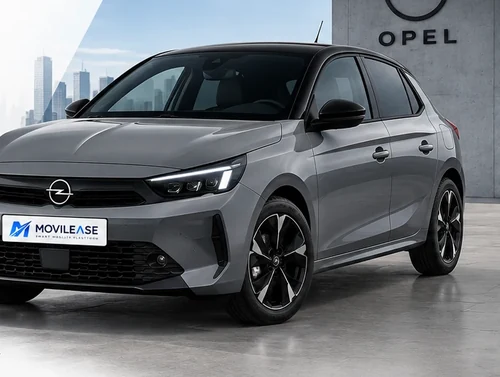
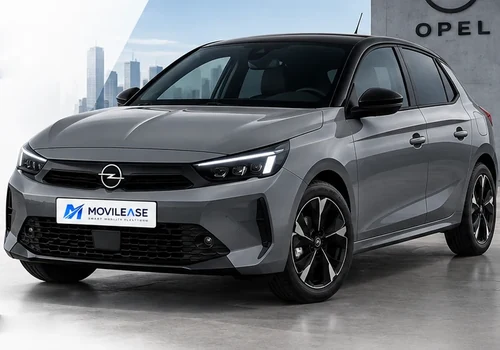
Ofertas con Stonic, CX-30 y Qashqai; portada del Corsa centrada
Entran en «Ofertas Exclusivas» el Kia Stonic, el Mazda CX-30 y el Nissan Qashqai
(oferta:true en CARS). Con el Opel Corsa, el Renault Captur y el Honda CR-V
quedan seis, igual que en movilease.es.

La foto del Corsa se veía desplazada a la izquierda porque el recorte le cortaba
el morro. Entra la misma portada nueva que en movilease.es, con el coche entero y
centrado, y se regeneran la tarjeta y el hero.

Verificado: comprobar.js sin fallos.

diff --git a/sitio-nuevo/index.html b/sitio-nuevo/index.html
@@ -1489,17 +1489,17 @@ const CARS = [
   {b:'Toyota',m:'Yaris',s:'120H 116CV ACTIVE',t:'Compacto',fuel:'Híbrido',g:'Automático',p:327,cv:116,cons:'—',plazas:5,img:'fotos/toyota-yaris-01.webp',cat:'hibrido',feat:true,badge:'Híbrido',meses:72},
   {b:'Volkswagen',m:'Polo',s:'MATCH 1.0 TSI 95CV',t:'Compacto',fuel:'Gasolina',g:'Manual',p:329,cv:95,cons:'—',plazas:5,img:'fotos/vw-polo-01.webp',cat:'turismo',feat:true,badge:null,meses:60},
   {b:'SEAT',m:'León',s:'1.5 eTSI 115CV DSG Style XL',t:'Compacto',fuel:'Gasolina',g:'Automático',p:330,cv:115,cons:'—',plazas:5,img:'fotos/seat-leon-01.webp',cat:'turismo',feat:false,badge:null,meses:48,oferta:false,rapida:true},
-  {b:'Mazda',m:'2',s:'1.5 85kW 116CV CVT Centre-line',t:'Compacto',fuel:'Gasolina',g:'Automático',p:343,cv:116,cons:'4,7',plazas:5,img:'fotos/mazda-2-01.webp',cat:'turismo',feat:false,badge:null,meses:60},{b:'Mazda',m:'3',s:'2.5L e-SKY G MHEV 103kW 140CV Prime-line',t:'Compacto',fuel:'Híbrido',g:'Automático',p:322,cv:140,cons:'5,5',plazas:5,img:'fotos/mazda-3-01.webp',cat:'hibrido',feat:true,badge:'Híbrido',meses:60},{b:'Mazda',m:'CX-30',s:'e-SKYACTIV G MHEV 140CV MT',t:'SUV',fuel:'Híbrido',g:'Manual',p:357,cv:140,cons:'—',plazas:5,img:'fotos/mazda-cx-30-01.webp',cat:'hibrido',feat:true,badge:'Híbrido',meses:36},{b:'Mazda',m:'CX-5',s:'2.5 Sky MHEV 141CV AT FWD Centre-Line',t:'SUV',fuel:'Híbrido',g:'Automático',p:489,cv:141,cons:'6,9',plazas:5,img:'fotos/mazda-cx-5-01.webp',cat:'suv',feat:false,badge:'SUV',meses:60},
+  {b:'Mazda',m:'2',s:'1.5 85kW 116CV CVT Centre-line',t:'Compacto',fuel:'Gasolina',g:'Automático',p:343,cv:116,cons:'4,7',plazas:5,img:'fotos/mazda-2-01.webp',cat:'turismo',feat:false,badge:null,meses:60},{b:'Mazda',m:'3',s:'2.5L e-SKY G MHEV 103kW 140CV Prime-line',t:'Compacto',fuel:'Híbrido',g:'Automático',p:322,cv:140,cons:'5,5',plazas:5,img:'fotos/mazda-3-01.webp',cat:'hibrido',feat:true,badge:'Híbrido',meses:60},{b:'Mazda',m:'CX-30',s:'e-SKYACTIV G MHEV 140CV MT',t:'SUV',fuel:'Híbrido',g:'Manual',p:357,cv:140,cons:'—',plazas:5,img:'fotos/mazda-cx-30-01.webp',cat:'hibrido',feat:true,badge:'Híbrido',meses:36,oferta:true},{b:'Mazda',m:'CX-5',s:'2.5 Sky MHEV 141CV AT FWD Centre-Line',t:'SUV',fuel:'Híbrido',g:'Automático',p:489,cv:141,cons:'6,9',plazas:5,img:'fotos/mazda-cx-5-01.webp',cat:'suv',feat:false,badge:'SUV',meses:60},
   
   {b:'Volkswagen',m:'Taigo',s:'1.0 TSI 70kW 95CV',t:'SUV',fuel:'Gasolina',g:'Manual',p:356,cv:95,cons:'—',plazas:5,img:'fotos/vw-taigo-01.webp',cat:'suv',feat:true,badge:'SUV',meses:60},
   {b:'SEAT',m:'León FR',s:'1.5 TSI 110kW 150CV FR Special Edition',t:'Compacto',fuel:'Gasolina',g:'Manual',p:357,cv:150,cons:'—',plazas:5,img:'fotos/seat-leon-fr-01.webp',cat:'turismo',feat:false,badge:null,meses:60,oferta:false,rapida:true},
   {b:'Cupra',m:'Formentor',s:'1.5 eTSI 150CV DSG',t:'SUV',fuel:'Gasolina',g:'Automático',p:428,cv:150,cons:'—',plazas:5,img:'fotos/cupra-formentor-01.webp',cat:'turismo',feat:true,badge:'SUV',oferta:false,meses:36,rapida:true},
   
-  {b:'Nissan',m:'Qashqai',s:'DIG-T 103kW 140CV mHEV 4x2 Acenta',t:'SUV',fuel:'Gasolina',g:'Manual',p:381,cv:140,cons:'—',plazas:5,img:'fotos/nissan-qashqai-01.webp',cat:'suv',feat:false,badge:'SUV',meses:60,oferta:false},
+  {b:'Nissan',m:'Qashqai',s:'DIG-T 103kW 140CV mHEV 4x2 Acenta',t:'SUV',fuel:'Gasolina',g:'Manual',p:381,cv:140,cons:'—',plazas:5,img:'fotos/nissan-qashqai-01.webp',cat:'suv',feat:false,badge:'SUV',meses:60,oferta:true},
   {b:'Audi',m:'A1',s:'Sportback Adrenalin 30 TFSI 85 kW (115 CV) S tronic',t:'Compacto',fuel:'Gasolina',g:'Automático',p:375,cv:115,cons:'—',plazas:5,img:'fotos/audi-a1-01.webp',cat:'turismo',feat:false,badge:null,meses:36},
   {b:'Nissan',m:'Juke',s:'1.6 Hybrid 145CV N-Connecta',t:'SUV',fuel:'Híbrido',g:'Automático',p:386,cv:143,cons:'—',plazas:5,img:'fotos/nissan-juke-01.webp',cat:'hibrido',feat:false,badge:'Híbrido',meses:60},
 {b:'Kia',m:'Niro',s:'1.6 GDi HEV 139CV Drive',t:'SUV',fuel:'Híbrido',g:'Automático',p:381,cv:139,cons:'—',plazas:5,img:'fotos/kia-niro-01.webp',cat:'suv',feat:false,badge:'Híbrido',oferta:false,meses:60},
-{b:'Kia',m:'Stonic',s:'Drive 1.0 TGDI MHEV 115CV',t:'SUV',fuel:'Híbrido',g:'Manual',p:360,cv:115,cons:'—',plazas:5,img:'fotos/kia-stonic-01.webp',cat:'hibrido',feat:false,badge:'Híbrido',oferta:false,meses:60},
+{b:'Kia',m:'Stonic',s:'Drive 1.0 TGDI MHEV 115CV',t:'SUV',fuel:'Híbrido',g:'Manual',p:360,cv:115,cons:'—',plazas:5,img:'fotos/kia-stonic-01.webp',cat:'hibrido',feat:false,badge:'Híbrido',oferta:true,meses:60},
   {b:'Opel',m:'Mokka',s:'1.2 T XHT Hybrid eDCT6 GS',t:'SUV',fuel:'Híbrido',g:'Automático',p:393,cv:145,cons:'—',plazas:5,img:'fotos/opel-mokka-01.webp',cat:'suv',feat:false,badge:'SUV',meses:60},
 {b:'Citroën',m:'C4',s:'Hybrid 145 CV Business Edition e-DCS6',t:'Compacto',fuel:'Híbrido',g:'Automático',p:374,cv:145,cons:'—',plazas:5,img:'fotos/citroen-c4-01.webp',cat:'hibrido',feat:false,badge:'Híbrido',oferta:false,meses:60,rapida:true},
   {b:'MG',m:'HS',s:'HEV COM MY25.5',t:'SUV',fuel:'Híbrido',g:'Automático',p:405,cv:224,cons:'—',plazas:5,img:'fotos/mg-hs-01.webp',cat:'suv',feat:false,badge:'Híbrido',meses:60,oferta:false,rapida:true},
